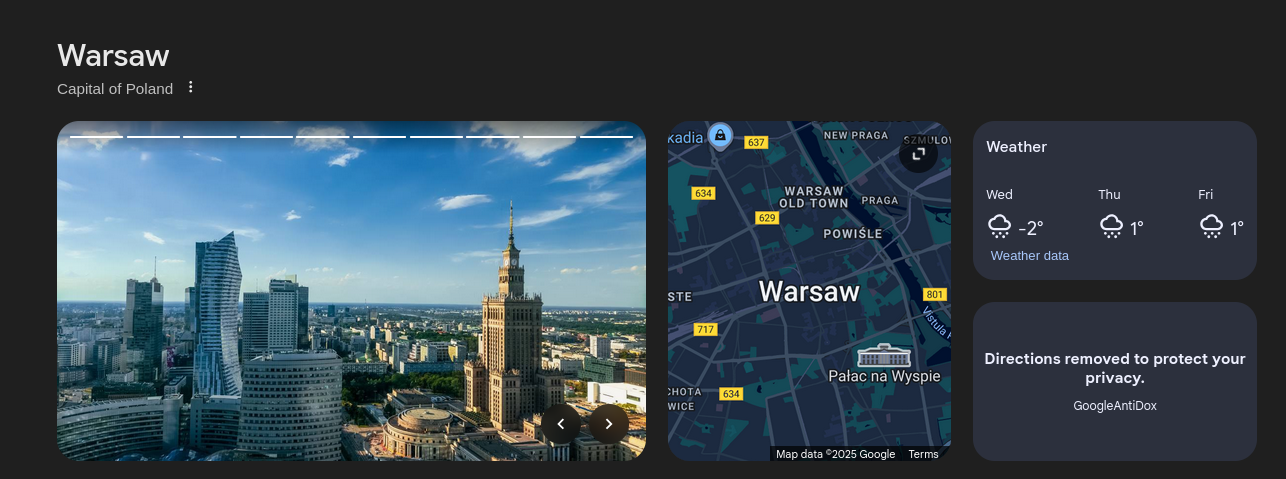
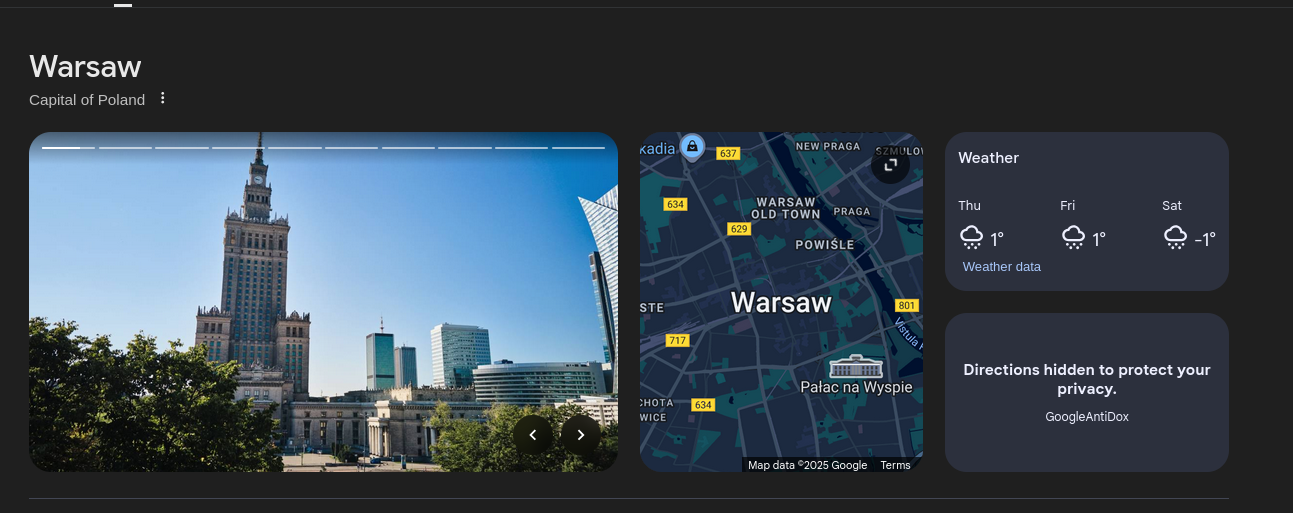
Renamed 'removed' -> 'hidden'

diff --git a/extension/src/main.js b/extension/src/main.js
@@ -21,7 +21,7 @@ function run() {
         directionsWidget.parentElement.innerHTML = `
             <div class="googleantidox-hidden-directions">
                 <div>
-                    <b>Directions removed to protect your privacy.</b>
+                    <b>Directions hidden to protect your privacy.</b>
                 </div>
                 <div style="font-size: 80%">
                     GoogleAntiDox
